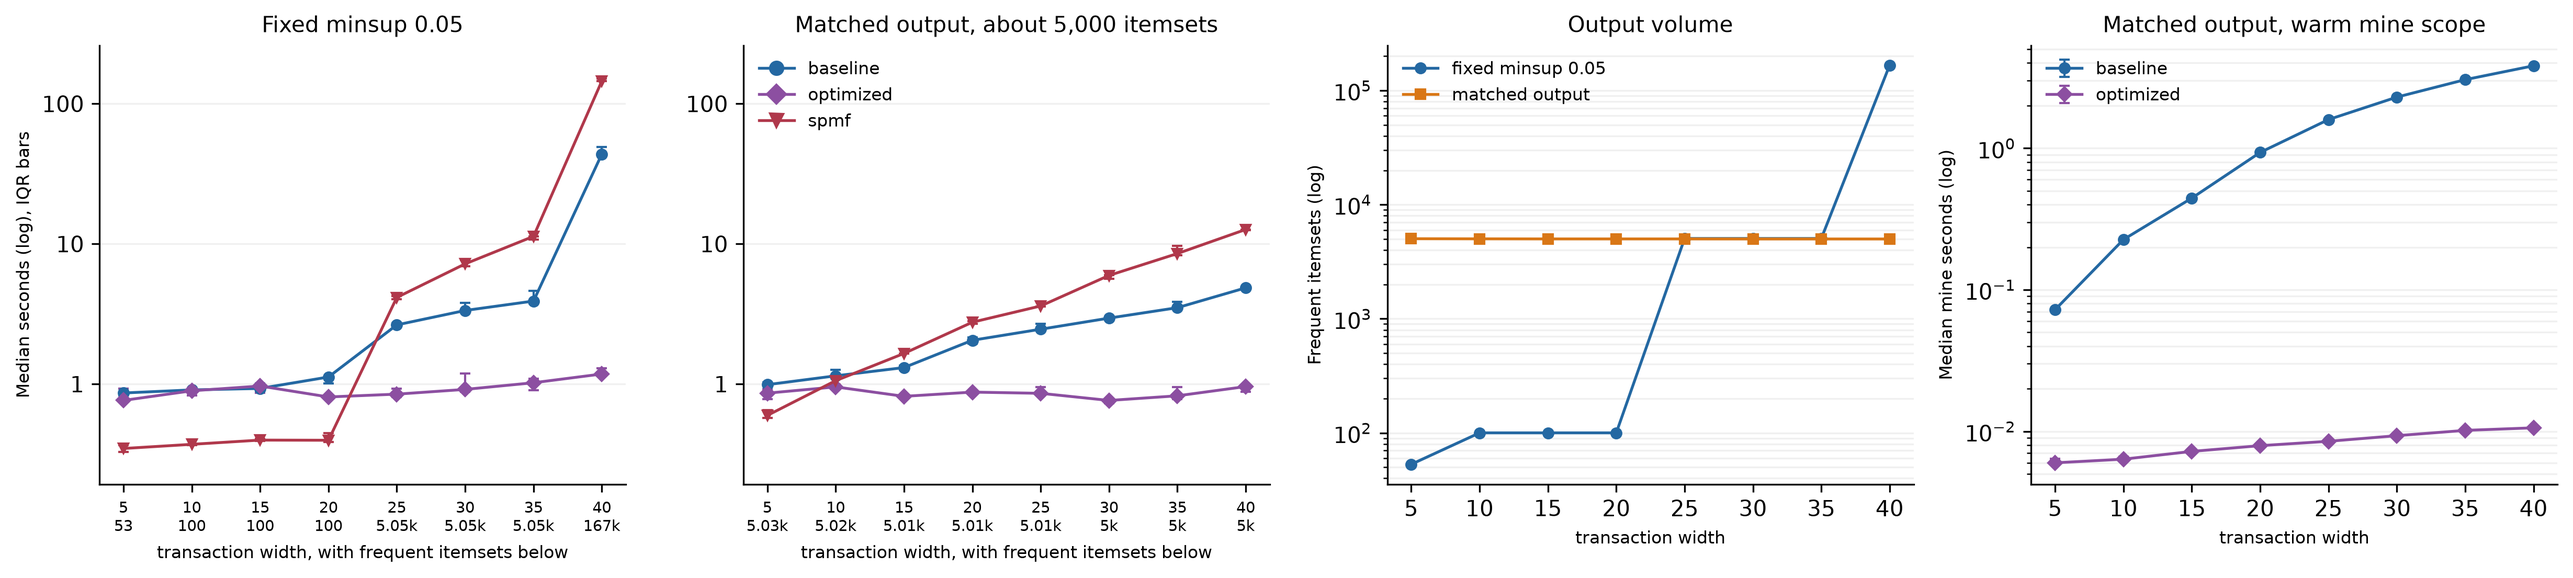
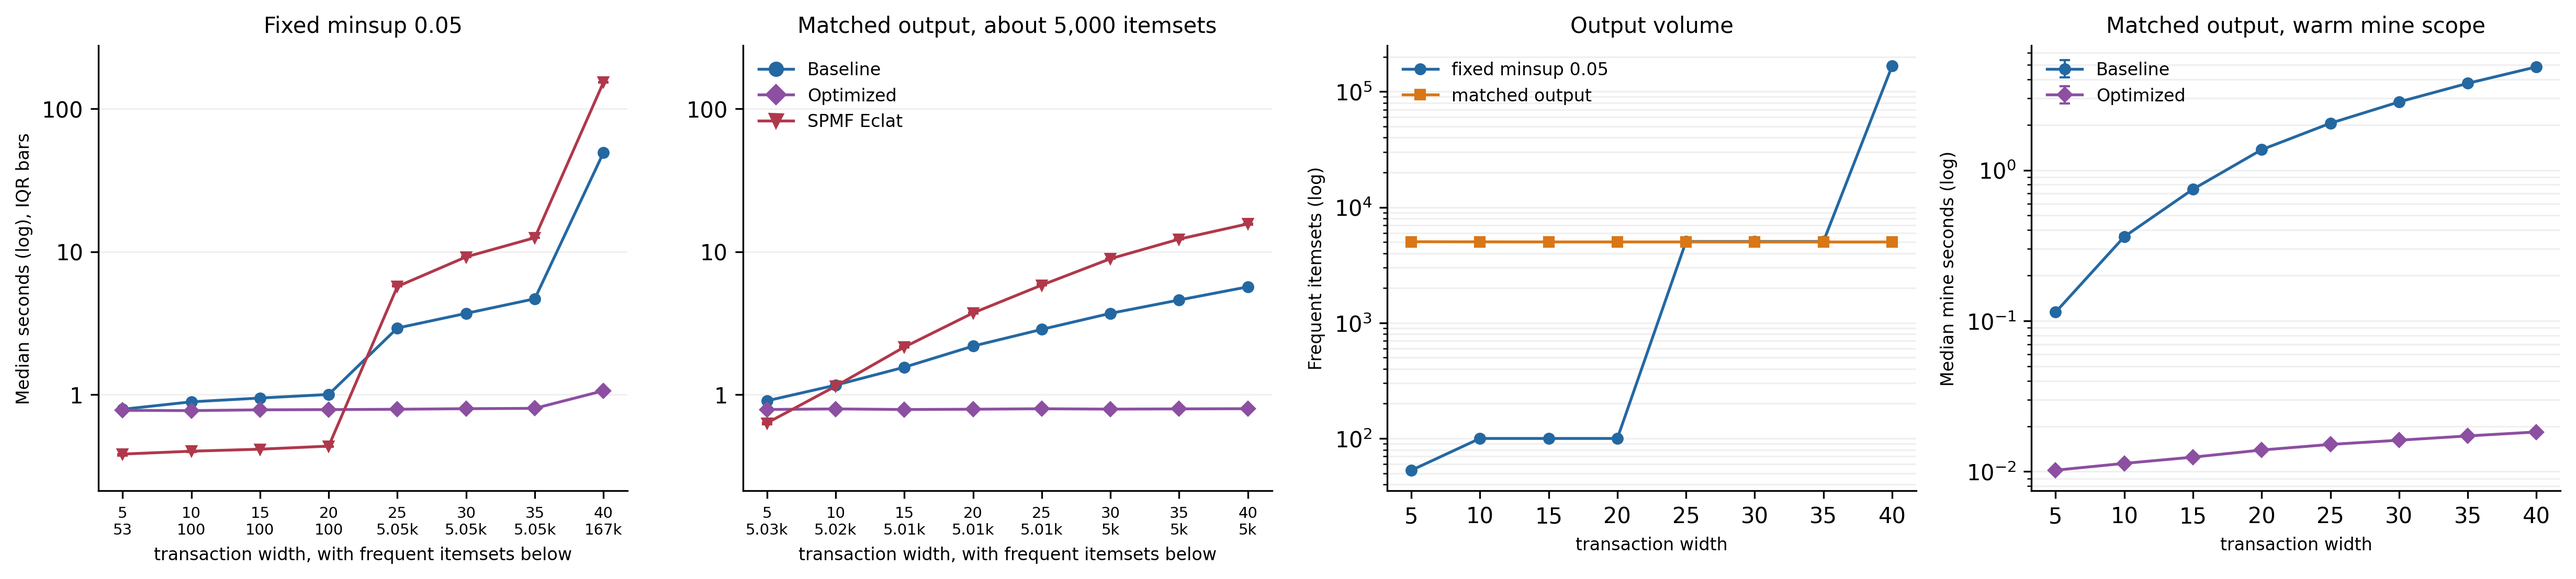
docs: rerun the width experiment and stage profile on the grading machine
Both ran on Windows laptops. The rerun on BBQ at revision 8c15198 keeps
every result on one machine: all 360 width attempts match SPMF exactly,
the baseline's mining time grows 42-fold over width 5 to 40, and the
layout prototype saves 35% of the Accidents run.

Refs DAT-24

diff --git a/docs/bbq-width-profile-2026-11-27.md b/docs/bbq-width-profile-2026-11-27.md
@@ -1,0 +1,36 @@
+# Transaction width and stage profile on the grading machine, 2026-11-27
+
+The report states every measurement on one machine, but the [width record](width-runtime-2026-11-11.md) and the [stage profile](future-optimizations-2026-11-22.md) ran on Windows laptops. This record reruns both, and the layout prototype of Proposal 1, on the grading machine. The report's width table and figure, the profile table, and the prototype numbers come from this run.
+
+## Run
+
+`bbq-width-profile-20261127T044121Z` ran on BBQ: Linux, Intel Core i7-11800H fixed at 2.3 GHz with `no_turbo` 1 at start and end, Julia 1.13.2 with one thread, and SPMF 2.66 on Temurin 25.0.4.1. The code is revision `8c15198`, whose `src/` and `demo.jl` equal revision `ca60f43` of the runtime campaign. The benchmark files and the SPMF JAR are symlinks to the checkout of `bbq-all-variants-cli-5repeat-20261117T041922Z`, and the width databases regenerate from `experiments/configs/width-manifest.toml`.
+
+The run holds the benchmark lock and refuses to start unless turbo is off and every CPU policy caps at 2,300,000 kHz. It runs the three width configurations, `runtime_curves.jl` and `join_work.jl` on the two cold ones, and `stage_profile.jl` with five repeats, with the commands of the two earlier records. All 360 width attempts are `ok` and match SPMF exactly.
+
[1 lines of base64/hex data omitted]
+
+## Results
+
+Under matched output, the baseline's warm `mine` time grows 42-fold from width 5 to 40 (0.114 to 4.841 s) at 9.0 to 10.0 ns per merged element. The optimized variant grows 1.8-fold (10.2 to 18.3 ms). The join counts and merged elements equal the earlier record, because they do not depend on the machine. SPMF Eclat's cold time grows 25-fold. Under fixed minsup 0.05, the baseline takes 1.0, 2.9, and 49.4 s at widths 20, 25, and 40.
+
+The profile shares stay within 3 points of the earlier ones. Output takes 83% to 98% of the samples at the three dense points, and the sort alone 35% to 43%. Layout takes 98% to 99% on Accidents and Retail 0.01.
+
+The prototype times the two layout steps three times per point:
+
+| Point | `count_items` + `bitset_tidsets` s | Array-indexed s | Faster | Share of the pass saved |
+|---|---:|---:|---:|---:|
+| accidents 0.65 | 0.310 | 0.092 | 3.4 times | 35% |
+| retail 0.001 | 0.056 | 0.025 | 2.2 times | 22% |
+| T10I4D100K 0.00025 | 0.039 | 0.017 | 2.3 times | 3% |
+
+## Reproduce
+
+Copy `bbq_width_profile.sh` and a Git bundle of the revision to `incoming/NAME/` under the benchmark root on BBQ, then run `sh bbq_width_profile.sh NAME REVISION`. The width figure comes from:
+
+```sh
+R=results/raw/bbq-width-profile-20261127T044121Z
+uv run --no-project --python 3.12 --with matplotlib==3.10.7 python scripts/plot_width_curves.py \
+  $R/width-fixed/curves/curves.csv $R/width-matched/curves/curves.csv \
+  --warm-summary $R/width-matched-warm/summary.csv --out $R/width-figure
+```

diff --git a/docs/report/figures/README.md b/docs/report/figures/README.md
@@ -8,5 +8,9 @@ Each figure here is a copy of a plot in `results/figures/`, which Git ignores. T
 | `output-size.pdf` | `results/raw/bbq-all-variants-cli-5repeat-20261117T041922Z` | See [the output-size record](../../output-size-2026-11-19.md#reproduce) |
 | `en/scalability.pdf` | Same run as `scalability.pdf` | The same commands with `--out $OUT` and no `--language vi`, which write `$OUT/scalability.pdf` |
 | `en/output-size.pdf` | Same run as `output-size.pdf` | The same commands with `--out $OUT` and no `--language vi`, which write `$OUT/output-size.pdf` |
+| `correctness-grid.pdf` | `results/raw/bbq-all-variants-cli-5repeat-20261117T041922Z` | See [the report README](../README.md#tạo-lại-biểu-đồ-độ-đúng-và-bảng-bộ-nhớ) |
+| `en/correctness-grid.pdf` | Same run as `correctness-grid.pdf` | The same command without `--language vi` |
+| `runtime-curves.png` | `results/raw/bbq-all-variants-cli-5repeat-20261117T041922Z` | See [the runtime record](../../runtime-curves-2026-11-17.md#reproduce) |
+| `width-curves.png` | `results/raw/bbq-width-profile-20261127T044121Z` | See [the width and profile record](../../bbq-width-profile-2026-11-27.md#reproduce) |
 
-The English report, `main-en.tex`, uses the `en/` copies. `scripts/plot_report_validation.py` writes `correctness-grid.pdf` and `peak-memory.png` with Vietnamese labels under `--language vi` and English labels by default. [The report README](../README.md#tạo-lại-biểu-đồ-độ-đúng-và-bộ-nhớ) gives both commands.
+The English report, `main-en.tex`, uses the `en/` copies.
